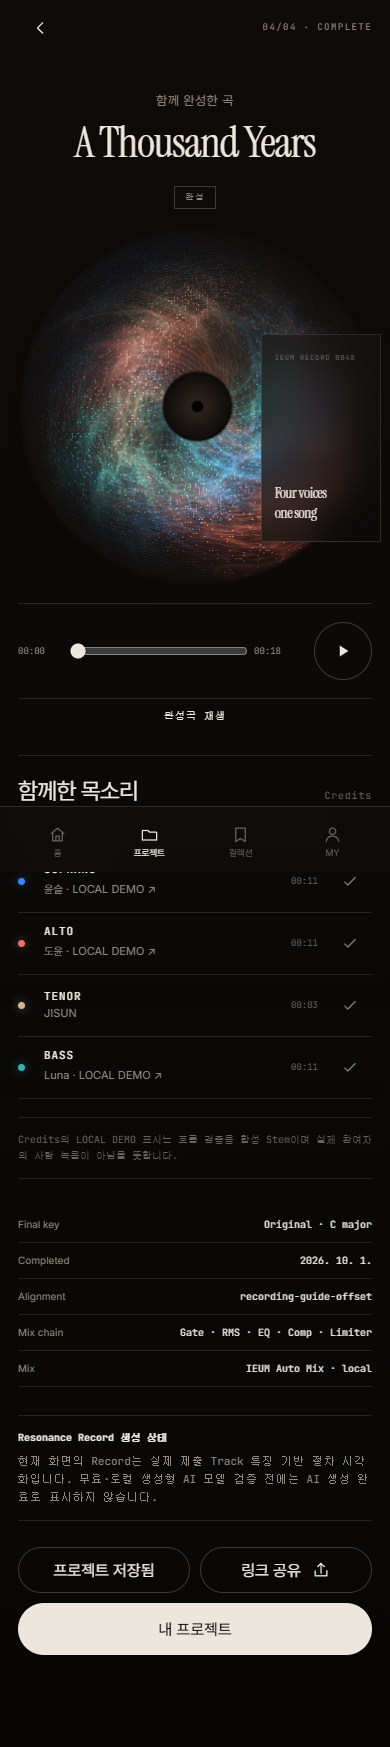
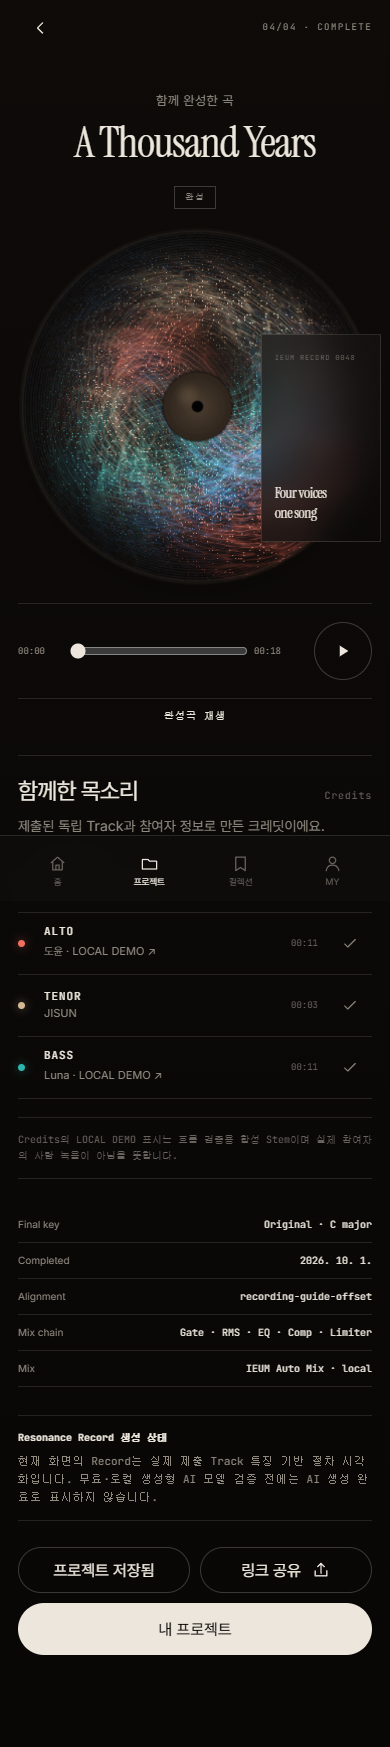
Sharpen resonance flow and vinyl material

diff --git a/src/styles.css b/src/styles.css
@@ -11,7 +11,7 @@
 }
 *{box-sizing:border-box}html{width:100%;background:#050403;scroll-behavior:smooth;overflow-x:hidden}body{margin:0;width:100%;min-width:320px;min-height:100vh;min-height:100dvh;overflow-x:hidden;background:radial-gradient(circle at 50% 10%,#1b1511 0,#0b0907 50%,#050403 100%);color:var(--primary)}#root{width:100%;min-height:100dvh}button,input{font:inherit}button{color:inherit;touch-action:manipulation}button:focus-visible,input:focus-visible,a:focus-visible{outline:2px solid rgba(236,230,220,.72);outline-offset:2px}.screen{width:100%;max-width:430px;min-height:100vh;min-height:100dvh;margin:0 auto;background:linear-gradient(180deg,rgba(14,11,9,.985),rgba(8,7,6,.995));padding-bottom:calc(92px + env(safe-area-inset-bottom));overflow:hidden;box-shadow:0 0 80px rgba(0,0,0,.42)}.screen>main{width:100%;margin:0 auto;padding:0 max(18px,env(safe-area-inset-left))}.topbar{height:calc(56px + env(safe-area-inset-top));padding:env(safe-area-inset-top) max(18px,env(safe-area-inset-left)) 0;display:grid;grid-template-columns:1fr auto 1fr;align-items:center;border-bottom:1px solid transparent;position:relative;z-index:10}.wordmark{font:500 14px/1 var(--sans);letter-spacing:.42em}.topbar-center,.top-meta{font:400 9px/1 var(--mono);letter-spacing:.16em;color:var(--secondary);text-transform:uppercase}.top-meta{text-align:right}.topbar .icon-btn{justify-self:start}.topbar .text-action{justify-self:end}.icon-btn,.text-action{border:0;background:none;min-width:44px;min-height:44px;display:inline-flex;align-items:center;justify-content:center;cursor:pointer}.text-action{color:var(--secondary);font-size:12px;padding:0}.kicker{font:400 10px/1.4 var(--mono);letter-spacing:.13em;text-transform:uppercase;color:var(--secondary);margin:0 0 12px}h1,h2,p{margin-top:0}h1{font:400 42px/1.06 var(--sans);letter-spacing:-.045em;margin-bottom:18px}h2{font:500 23px/1.2 var(--sans);letter-spacing:-.03em}p{font-size:14px;line-height:1.65;color:var(--secondary)}.title-row h1,.project-feature strong,.candidate-identity h1,.candidate-row strong,.complete-title h1,.sleeve strong{font-family:var(--serif);letter-spacing:-.025em}.primary,.secondary{border:0;min-height:52px;padding:0 20px;display:inline-flex;align-items:center;justify-content:center;gap:10px;cursor:pointer;transition:transform .1s,background .18s;border-radius:999px;font-weight:500}.primary{background:var(--primary);color:var(--bg)}.primary:active{transform:scale(.985);background:#d9d1c6}.secondary{background:transparent;color:var(--primary);border:1px solid var(--line-strong);min-height:46px}.section-head{display:flex;align-items:baseline;justify-content:space-between;gap:16px;margin-bottom:8px}.section-head h2{margin:0}.section-head>span{font:400 10px/1 var(--mono);letter-spacing:.08em;color:var(--tertiary)}
 
-.record{margin:0;aspect-ratio:1;position:relative;filter:drop-shadow(0 22px 28px rgba(0,0,0,.32));isolation:isolate}.record canvas{width:100%;height:100%;display:block;border-radius:50%}.record[data-state=rest] canvas,.record[data-state=playing] canvas{animation:rotate 32s linear infinite}.record[data-state=rest],.record[data-state=paused]{animation:resonance-breath 5s var(--ease) infinite}.record[data-state=paused] canvas{animation:rotate 80s linear infinite}.record[data-state=complete]{animation:complete-in 1.1s var(--ease) both}.record-processing{position:absolute;inset:43%;display:grid;place-items:center;font:500 9px/1 var(--mono);letter-spacing:.12em;color:var(--secondary)}@keyframes rotate{to{transform:rotate(360deg)}}@keyframes resonance-breath{0%,100%{scale:1}50%{scale:1.008}}@keyframes complete-in{0%{transform:scale(.94);filter:drop-shadow(0 0 0 rgba(0,0,0,0))}55%{transform:scale(1.035)}100%{transform:scale(1)}}
+.record{margin:0;aspect-ratio:1;position:relative;filter:drop-shadow(0 22px 28px rgba(0,0,0,.32));isolation:isolate}.record canvas{width:100%;height:100%;display:block;border-radius:50%}.record[data-state=playing] canvas,.record[data-state=recording] canvas{animation:rotate 32s linear infinite}.record[data-state=paused]{animation:resonance-breath 5s var(--ease) infinite}.record[data-state=paused] canvas{animation:rotate 80s linear infinite}.record[data-state=complete]{animation:complete-in 1.1s var(--ease) both}.record-processing{position:absolute;inset:43%;display:grid;place-items:center;font:500 9px/1 var(--mono);letter-spacing:.12em;color:var(--secondary)}@keyframes rotate{to{transform:rotate(360deg)}}@keyframes resonance-breath{0%,100%{scale:1}50%{scale:1.008}}@keyframes complete-in{0%{transform:scale(.94);filter:drop-shadow(0 0 0 rgba(0,0,0,0))}55%{transform:scale(1.035)}100%{transform:scale(1)}}
 
 .home-screen>main{padding-bottom:40px}.home-intro{display:block;min-height:auto;padding:36px 0 28px}.home-intro>div:first-child{position:relative;z-index:2}.home-intro h1{font-family:var(--sans);font-size:42px;font-weight:400;line-height:1.08;letter-spacing:-.055em}.home-intro p:not(.kicker){max-width:360px}.home-intro .primary{width:100%;margin-top:18px}.demo-record{position:relative;width:82%;margin:30px auto 0}.demo-count{position:absolute;right:-5px;top:18%;font:400 14px/1 var(--mono);letter-spacing:.08em;padding:18px 14px;border-left:1px solid var(--line-strong);background:rgba(15,12,10,.58);backdrop-filter:blur(8px)}.demo-count small{display:block;font-size:8px;color:var(--tertiary);margin-top:5px}.content-section{padding:30px 0;border-top:1px solid var(--line)}.project-feature{border:0;background:none;color:inherit;width:100%;display:grid;grid-template-columns:92px 1fr;gap:18px;align-items:center;text-align:left;padding:12px 0 20px;cursor:pointer;border-bottom:1px solid var(--line)}.project-feature .record{width:92px}.project-feature span{display:flex;flex-direction:column}.project-feature small{font:400 9px/1 var(--mono);color:var(--secondary);letter-spacing:.08em}.project-feature strong{font:400 26px/1.1 var(--serif);margin:9px 0}.project-feature em{font-style:normal;font-size:12px;color:var(--secondary)}.project-line{width:100%;height:60px;display:flex;justify-content:space-between;align-items:center;border:0;border-bottom:1px solid var(--line);background:none;text-align:left;cursor:pointer}.project-line span{font-size:14px}.project-line small{font:400 8px/1 var(--mono);color:var(--tertiary)}.for-you{margin-bottom:32px}.song-row{min-height:68px;display:grid;grid-template-columns:38px 1fr 24px;align-items:center;border-bottom:1px solid var(--line)}.song-row .song-index{font:400 10px var(--mono);color:var(--tertiary)}.song-row div{display:flex;flex-direction:column;gap:5px}.song-row strong{font-size:14px}.song-row small{font-size:11px;color:var(--secondary)}
 

diff --git a/src/App.jsx b/src/App.jsx
@@ -202,8 +202,11 @@ float fbm(vec2 p){float v=0.,a=.5;for(int j=0;j<4;j++){v+=a*noise(p);p=p*2.03+ve
 vec3 voiceColor(int i){if(i==0)return vec3(.2,.62,1.22);if(i==1)return vec3(1.12,.39,.3);if(i==2)return vec3(.96,.79,.58);return vec3(.18,.82,.76);}
 void main(){
  vec2 p=(vUv-.5)*2.;float r=length(p),ang=atan(p.y,p.x);float disc=1.-smoothstep(.965,.997,r);
- vec3 col=mix(vec3(.025,.019,.016),vec3(.12,.095,.076),max(0.,1.-r)*.55);
- float grooves=(.5+.5*sin(r*430.+sin(ang*3.)*1.7))*(.01+.013*smoothstep(.2,.95,r));col+=vec3(grooves);
+ float warmFalloff=max(0.,1.-r);float materialNoise=(noise(p*vec2(92.,77.))-.5)*.008;
+ vec3 col=mix(vec3(.016,.012,.01),vec3(.105,.081,.064),warmFalloff*.58)+materialNoise;
+ float groovesA=(.5+.5*sin(r*430.+sin(ang*3.)*1.7))*(.009+.012*smoothstep(.2,.95,r));
+ float groovesB=(.5+.5*sin(r*267.-sin(ang*2.)*1.2))*.006;col+=vec3(groovesA+groovesB);
+ float outerRim=smoothstep(.947,.973,r)*(1.-smoothstep(.985,.998,r));col+=vec3(.18,.145,.11)*outerRim*.22;
  for(int i=0;i<4;i++){
   vec4 a=uLayerA[i],b=uLayerB[i];if(a.x<.5)continue;
   float live=1.-step(.45,abs(float(i)-uLiveIndex));float seed=b.z*37.13;
@@ -212,7 +215,7 @@ void main(){
   float theta=ang+warp+sin(ang*2.+b.x)*.035;
   float center=.54+(a.y-.54)*.31+sin(theta+b.x)*(.12+a.w*.014)+sin(theta*3.+seed)*(.045+a.w*.009);
   center+=live*sin(theta*8.+uTime*3.2)*uLiveLevel*.028;
-  float width=.062+a.z*.78;float d=abs(r-center);float ribbon=exp(-1.9*d*d/(width*width));
+  float width=.07+a.z*.84;float d=abs(r-center);float ribbon=exp(-1.82*d*d/(width*width));
   float lobeA=pow(.5+.5*cos(theta-b.x*.73-seed*.11),3.4);float lobeB=.78*pow(.5+.5*cos(theta-b.x*.41+2.35+seed*.07),5.2);float presence=.055+max(lobeA,lobeB);
   float flowNoise=fbm(polar*2.45+vec2((r-center)*12.+seed,-(r-center)*10.+seed*.4));
   float fibers=pow(.5+.5*cos((r-center)*178.+flowNoise*24.+sin(theta*7.+seed)*2.4),10.);
@@ -228,14 +231,18 @@ void main(){
   float sparkShape=smoothstep(.34,.035,length(sparkUv));float spark=sparkShape*step(.9,hash21(sparkCell+seed))*ribbon*presence;
   vec2 pinGrid=(p+vec2(seed*.013))*uResolution.x*.31;vec2 pinCell=floor(pinGrid);vec2 pinUv=fract(pinGrid)-.5;
   float pinShape=smoothstep(.22,.018,length(pinUv));float pin=pinShape*step(.94,hash21(pinCell-seed))*ribbon*presence;
-  float colorHaze=ribbon*presence*(.07+flowNoise*.055)+plume*(.026+domain*.024);
-  float ringFlow=ribbon*presence*(.028+fibers*.29+hair*.1+ridge*.39+ridgeFine*.16);
-  float crossingFlow=plume*(.012+plumeFibers*.25+ridge*.32+ridgeFine*.11)*(.22+.78*presence);
+  float colorHaze=ribbon*presence*(.024+flowNoise*.018)+plume*(.009+domain*.008);
+  float ringFlow=ribbon*presence*(.018+fibers*.4+hair*.15+ridge*.3+ridgeFine*.19);
+  float crossingFlow=plume*(.007+plumeFibers*.34+ridge*.24+ridgeFine*.14)*(.22+.78*presence);
   float intensity=colorHaze+ringFlow+crossingFlow+spark*3.1+pin*3.4;
   intensity*=.72+b.y*.78+live*uLiveLevel*.55;col+=voiceColor(i)*intensity;
  }
- float sheen=smoothstep(.13,0.,abs(p.x+p.y*.58-.12))*(1.-smoothstep(.18,.9,r))*.045;col+=vec3(.75,.68,.58)*sheen;
- float hub=1.-smoothstep(.185,.202,r);vec3 hubCol=mix(vec3(.025,.019,.016),vec3(.19,.15,.12),max(0.,1.-r/.2)*.7);col=mix(col,hubCol,hub);
+ float sheen=smoothstep(.2,0.,abs(p.x+p.y*.58-.12))*(1.-smoothstep(.12,.91,r))*.038;col+=vec3(.72,.63,.51)*sheen;
+ float hub=1.-smoothstep(.185,.205,r);float hubDepth=max(0.,1.-r/.205);
+ vec3 hubCol=mix(vec3(.027,.02,.016),vec3(.2,.155,.112),hubDepth*.78);
+ float hubGroove=(.5+.5*sin(r*185.))*smoothstep(.035,.19,r)*.025;hubCol+=vec3(.32,.245,.18)*hubGroove;
+ float hubSpec=smoothstep(.09,0.,length(p-vec2(-.055,.065)))*.13;hubCol+=vec3(.7,.56,.4)*hubSpec;
+ col=mix(col,hubCol,hub);float hubRim=smoothstep(.21,.198,r)*(1.-smoothstep(.185,.194,r));col+=vec3(.28,.215,.16)*hubRim*.32;
  float hole=1.-smoothstep(.026,.038,r);col=mix(col,vec3(.005,.004,.003),hole);
  col=1.-exp(-col*1.18);col=pow(col,vec3(.9));gl_FragColor=vec4(col*disc,disc);
 }`
@@ -250,7 +257,7 @@ void main(){
     gl.uniform4fv(gl.getUniformLocation(program,'uLayerA[0]'),layerA);gl.uniform4fv(gl.getUniformLocation(program,'uLayerB[0]'),layerB)
     gl.uniform1f(gl.getUniformLocation(program,'uLiveIndex'),state==='recording'?activePartIndex:-10)
     const timeLocation=gl.getUniformLocation(program,'uTime'),levelLocation=gl.getUniformLocation(program,'uLiveLevel'),resolutionLocation=gl.getUniformLocation(program,'uResolution')
-    const ratio=Math.min(window.devicePixelRatio||1,compact?1.55:2)
+    const ratio=Math.min(window.devicePixelRatio||1,2)
     const resize=()=>{const size=canvas.clientWidth;if(size<8)return false;const pixels=Math.round(size*ratio);if(canvas.width!==pixels||canvas.height!==pixels){canvas.width=pixels;canvas.height=pixels;gl.viewport(0,0,pixels,pixels)}gl.uniform2f(resolutionLocation,pixels,pixels);return true}
     const draw=(now=0)=>{if(now&&now-lastPaint<48){raf=requestAnimationFrame(draw);return}if(now)lastPaint=now;if(!resize())return;gl.uniform1f(timeLocation,now*.001);gl.uniform1f(levelLocation,levelRef.current);gl.clearColor(0,0,0,0);gl.clear(gl.COLOR_BUFFER_BIT);gl.drawArrays(gl.TRIANGLES,0,6);if(state==='recording'||state==='processing')raf=requestAnimationFrame(draw)}
     draw();const observer=new ResizeObserver(()=>{cancelAnimationFrame(raf);draw()})
